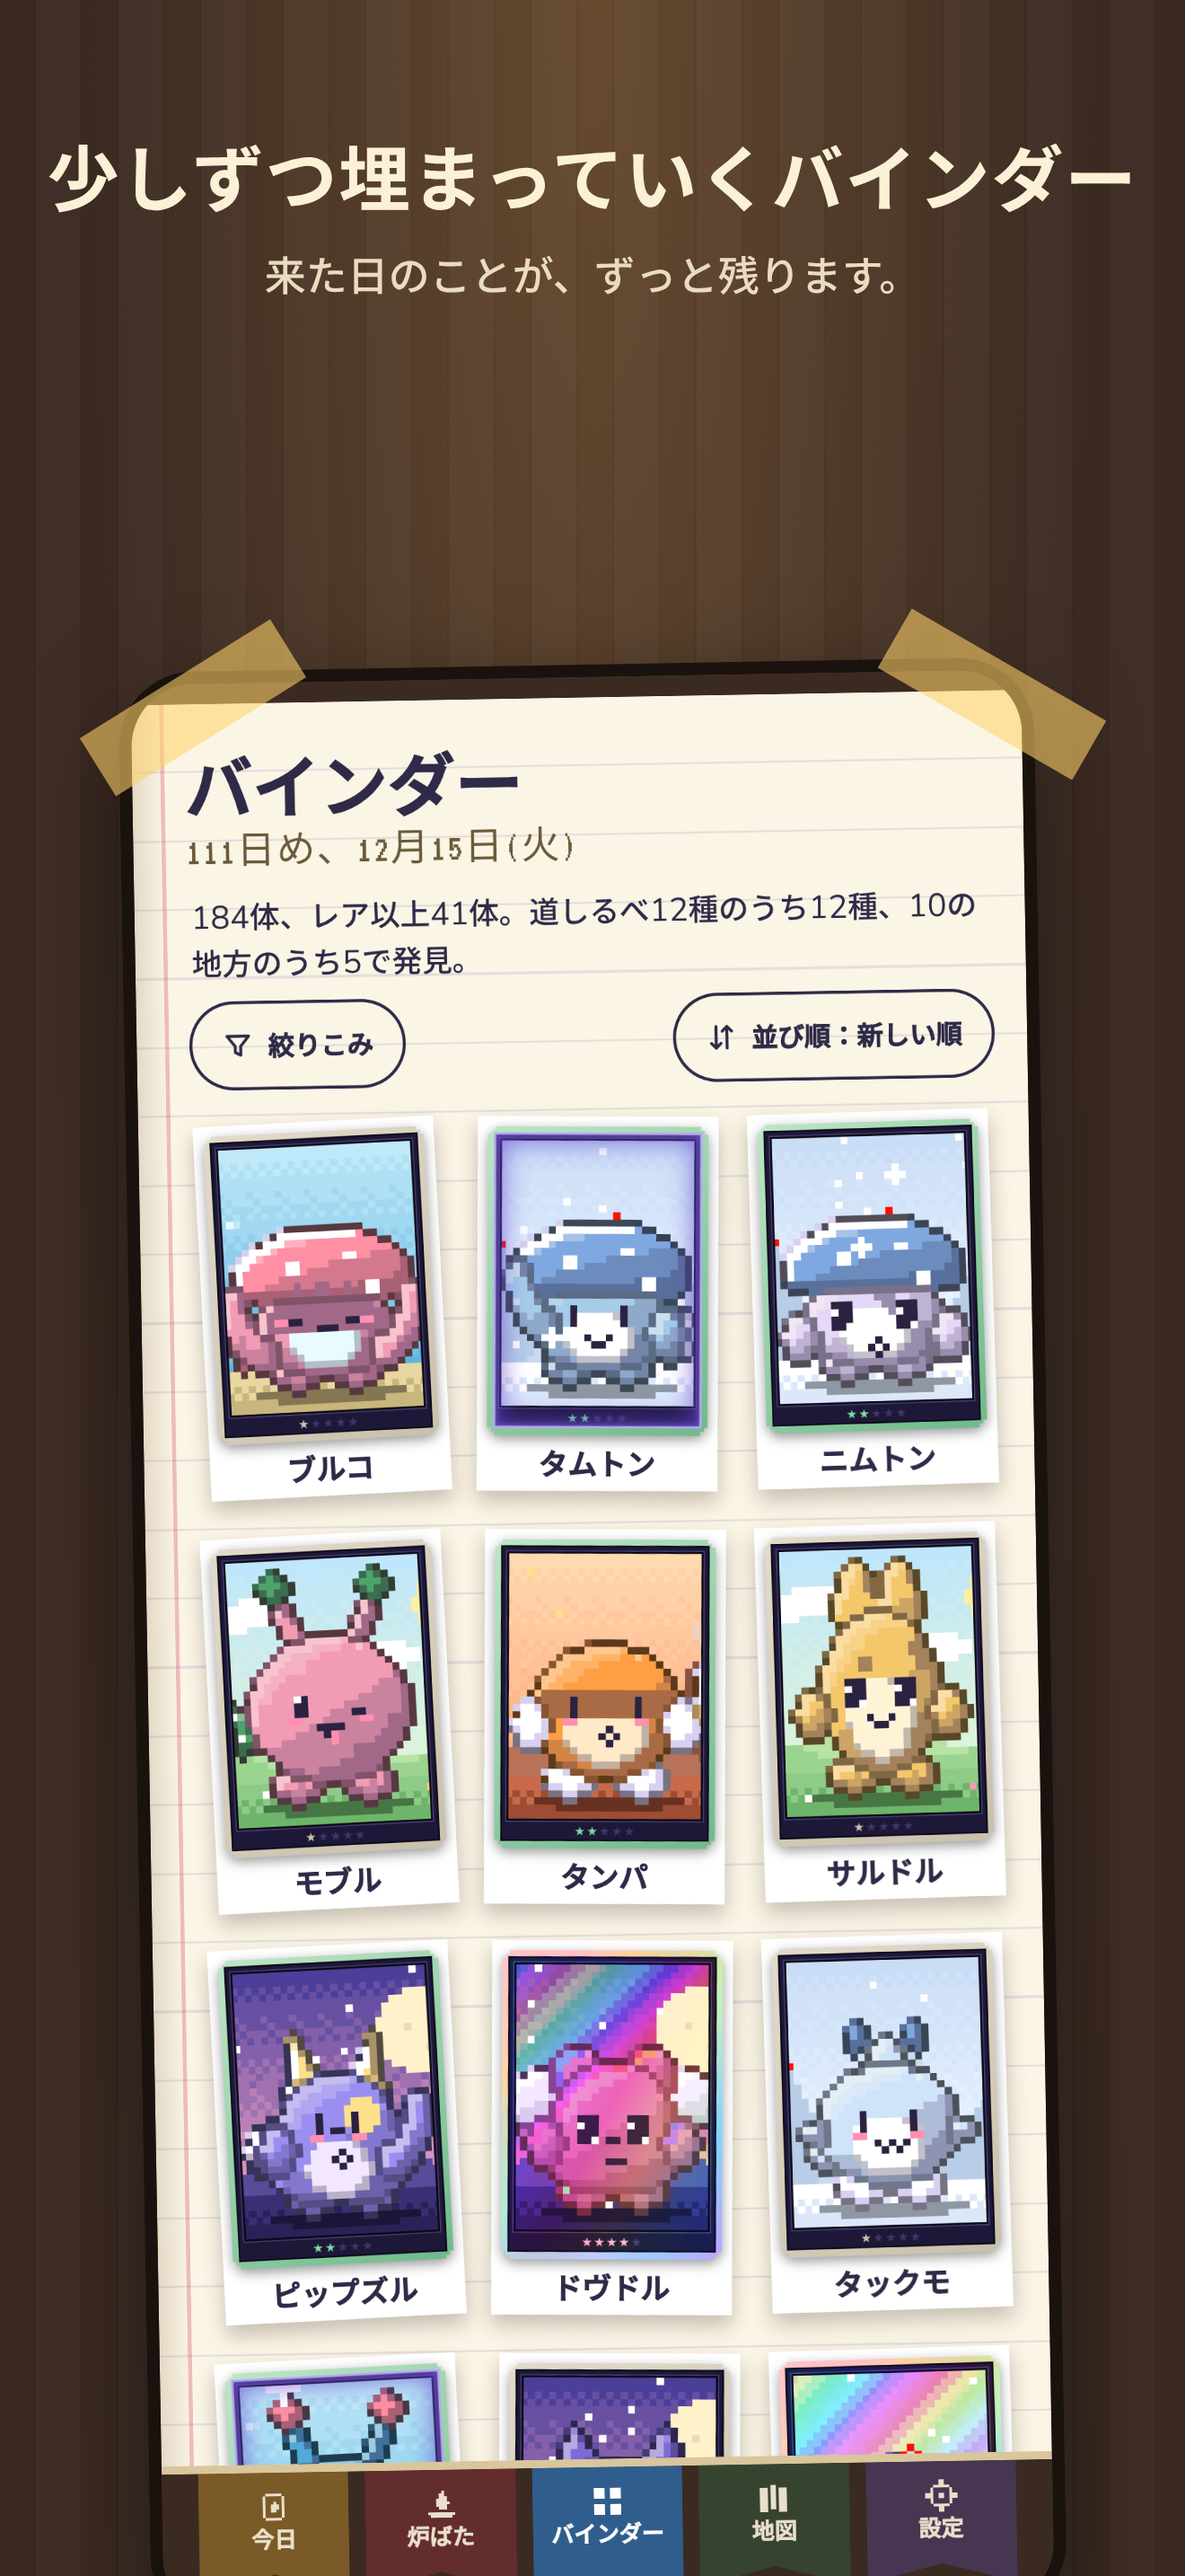
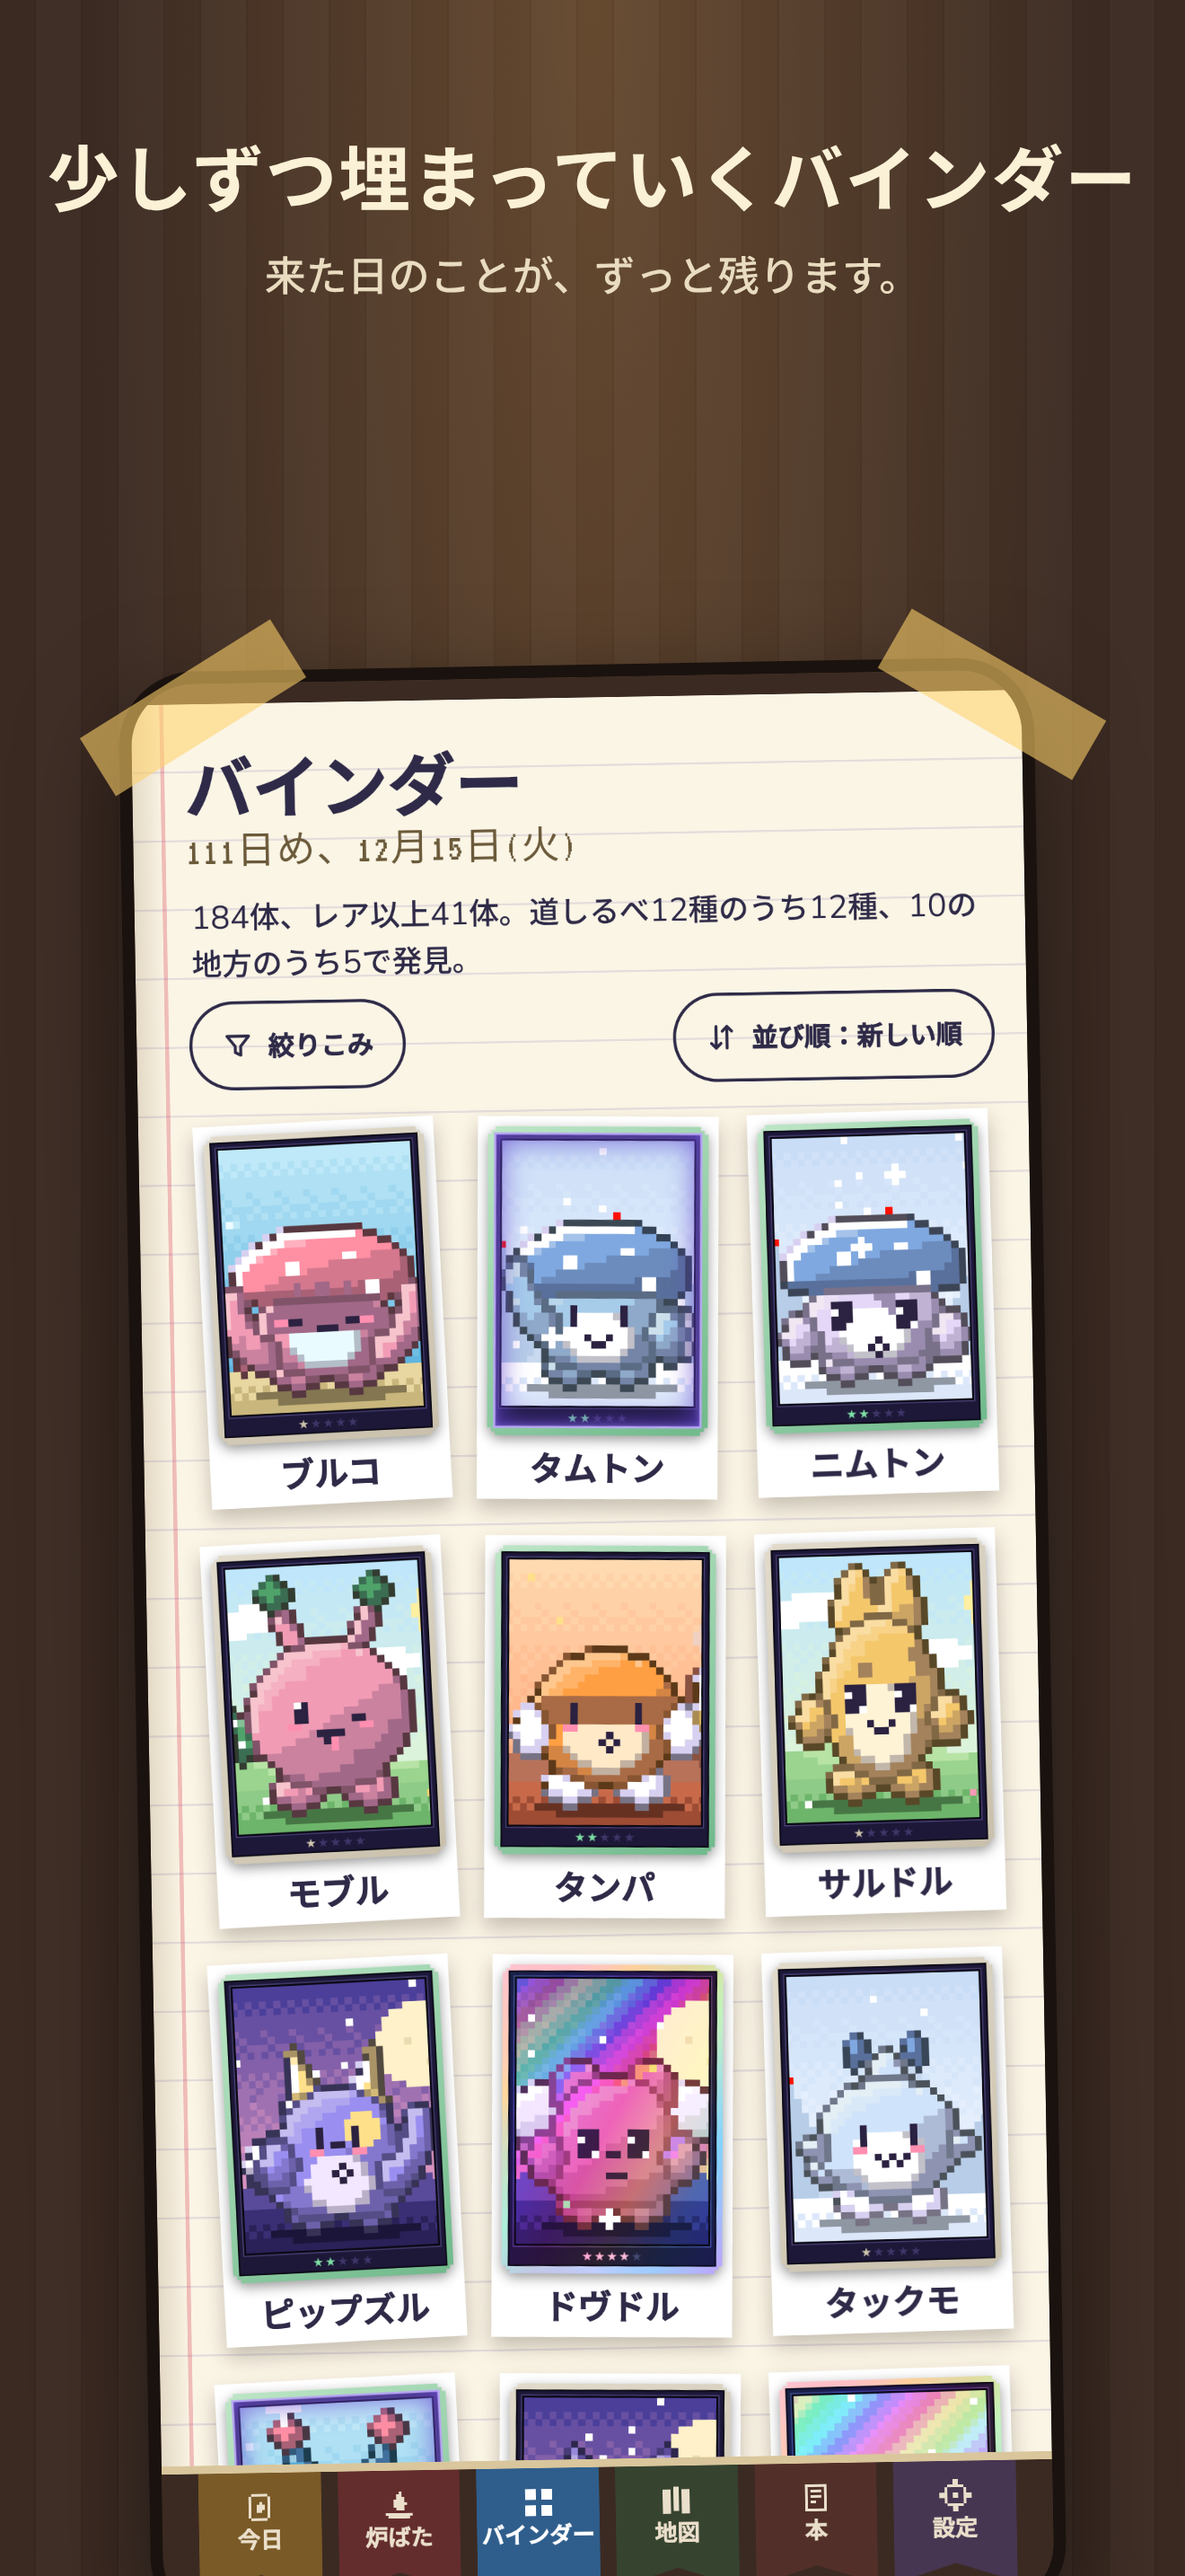
Store: screenshots and listing for 0.83.1 (slide 3 is the book)
Both sets (English, Japanese) retaken from 0.83.1 with the same 110-day save. Slide 3 is now the Book tab at the
latest spread ('Your days become a book') instead of Close the day. Listing text mentions the book's chapters, the
Scribe and keepsakes on their day.

Claude-Session: https://claude.ai/code/session_01QDdhyXcZrsuDWwz938x8Fo

Changed region(s): [[0.1864, 0.5586, 0.8697, 1.0]]

diff --git a/store/listing.md b/store/listing.md
@@ -57,8 +57,8 @@ Forgelings is a small, independent app, shaped by a group of early testers. Than
 ## Screenshots
 
 `screens/forgelings-1.png` to `forgelings-8.png` (English) and `screens-ja/` (Japanese), 1320 x 2868 (iPhone 6.9-inch), no
-alpha. Retaken November 12, 2026 from 0.73.1, from a 110-day save played through real taps (184 Forgelings, ending
-December 15 with First Snow at the Hearth). Apple scales these down for the smaller iPhone sizes, so one set per language
+alpha. Retaken November 14, 2026 from 0.83.1 (slide 3 is now the book), from a 110-day save played through real taps
+(184 Forgelings, ending December 15 with First Snow at the Hearth). Apple scales these down for the smaller iPhone sizes, so one set per language
 is enough. Upload them in order:
 
 1. One small thing a day (the three-card choice on a fresh morning)
